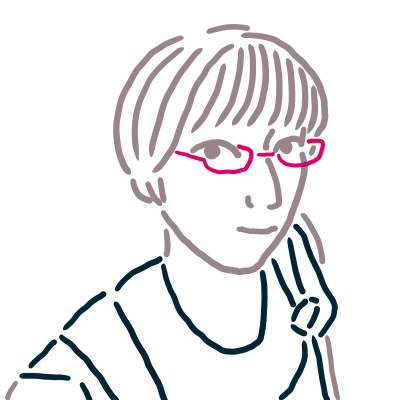
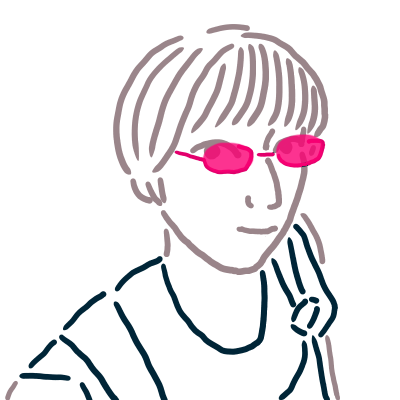
Add eventListner to members page to change ikeda image

Changed region(s): [[0.69, 0.33, 0.81, 0.42], [0.51, 0.33, 0.63, 0.45]]

diff --git a/pages/members.vue b/pages/members.vue
@@ -20,6 +20,13 @@
                 class="leader"
               >
                 <img
+                  v-if="index === 0"
+                  :src="'/portraits/' + ikedaFileName"
+                  alt=""
+                  class="portrait"
+                />
+                <img
+                  v-else
                   :src="'/portraits/' + leader.fileName"
                   alt=""
                   class="portrait"
@@ -68,6 +75,21 @@ import { members } from '~/assets/constants/member'
 
 export default {
   components: { WhiteHeader, Footer },
+  mounted() {
+    window.addEventListener('keypress', this.onKeyPress)
+  },
+  methods: {
+    onKeyPress(e) {
+      if (e.code === 'KeyP') {
+        this.ikedaFileName = 'ikeda-pink.png'
+      }
+    },
+  },
+  data() {
+    return {
+      ikedaFileName: 'ikeda.png',
+    }
+  },
   computed: {
     members() {
       return members
